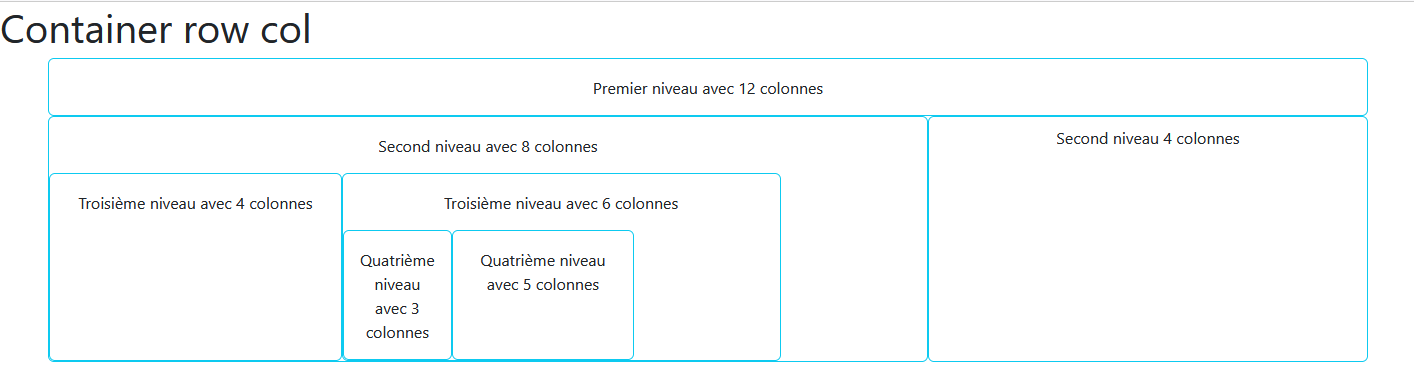
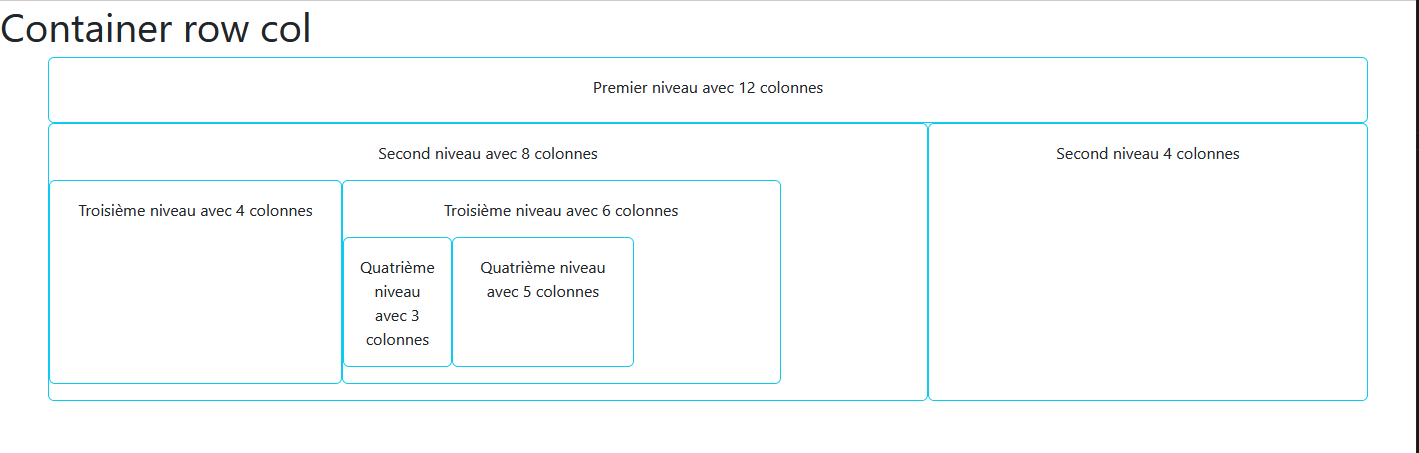
padding adjust

diff --git a/index.html b/index.html
@@ -13,18 +13,18 @@
     <h1>Container row col</h1>
     <div class="mt-1 container text-center">
         <div class="row">
-            <div class="card p-3 border-info col">Premier niveau avec 12 colonnes</div>
+            <div class="card pt-3 pb-4 border-info col">Premier niveau avec 12 colonnes</div>
         </div>
 
         <div class="row">
-            <div class="card border-info col-8">
+            <div class="card pb-3 border-info col-8">
                 <div class="row">
                     <div class="p-3 col">Second niveau avec 8 colonnes</div>
                 </div>
 
                 <div class="row">
                     <div class="card p-3 border-info col-4">Troisième niveau avec 4 colonnes</div>
-                    <div class="card border-info col-6">
+                    <div class="card pb-3 border-info col-6">
                         <div class="row">
                             <div class="p-3 col">Troisième niveau avec 6 colonnes</div>
                         </div> 
@@ -38,7 +38,7 @@
 
             </div>
 
-            <div class="card py-2 border-info col-4">Second niveau 4 colonnes</div>
+            <div class="card p-3 border-info col-4">Second niveau 4 colonnes</div>
         </div>
     </div>
 
